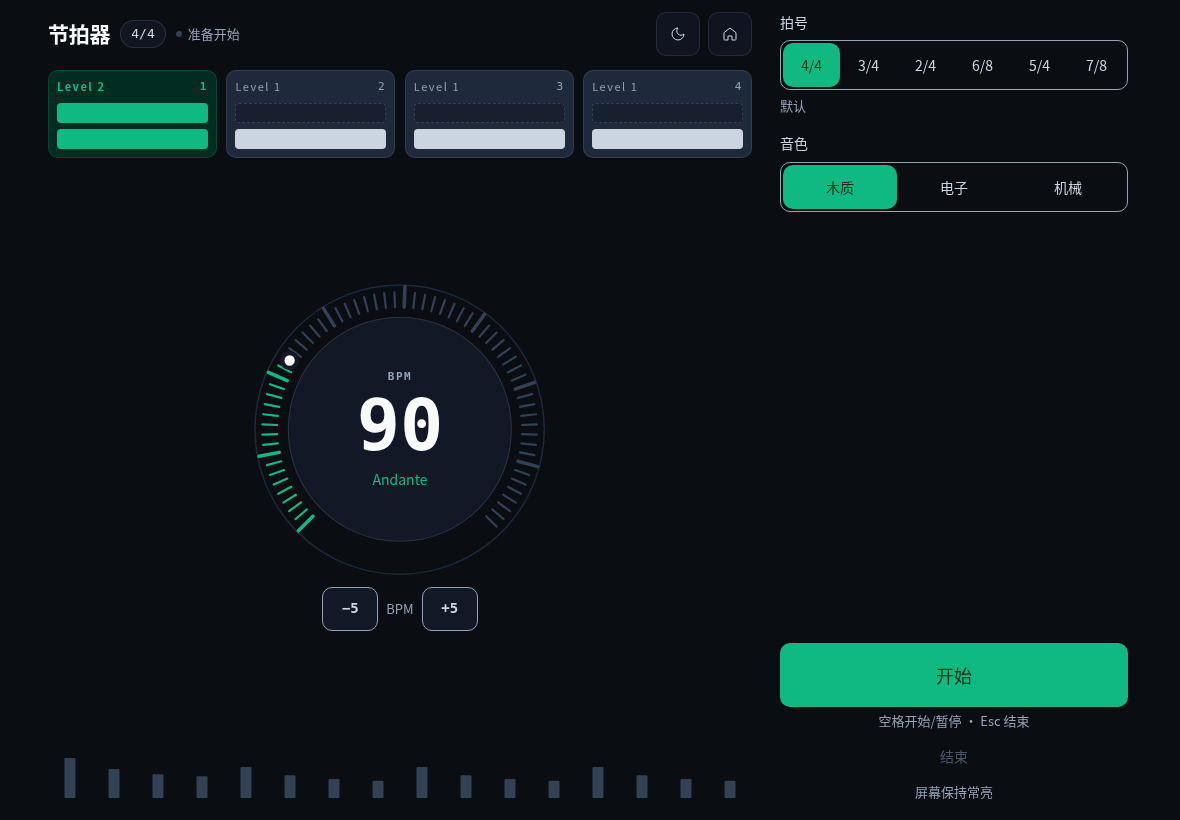
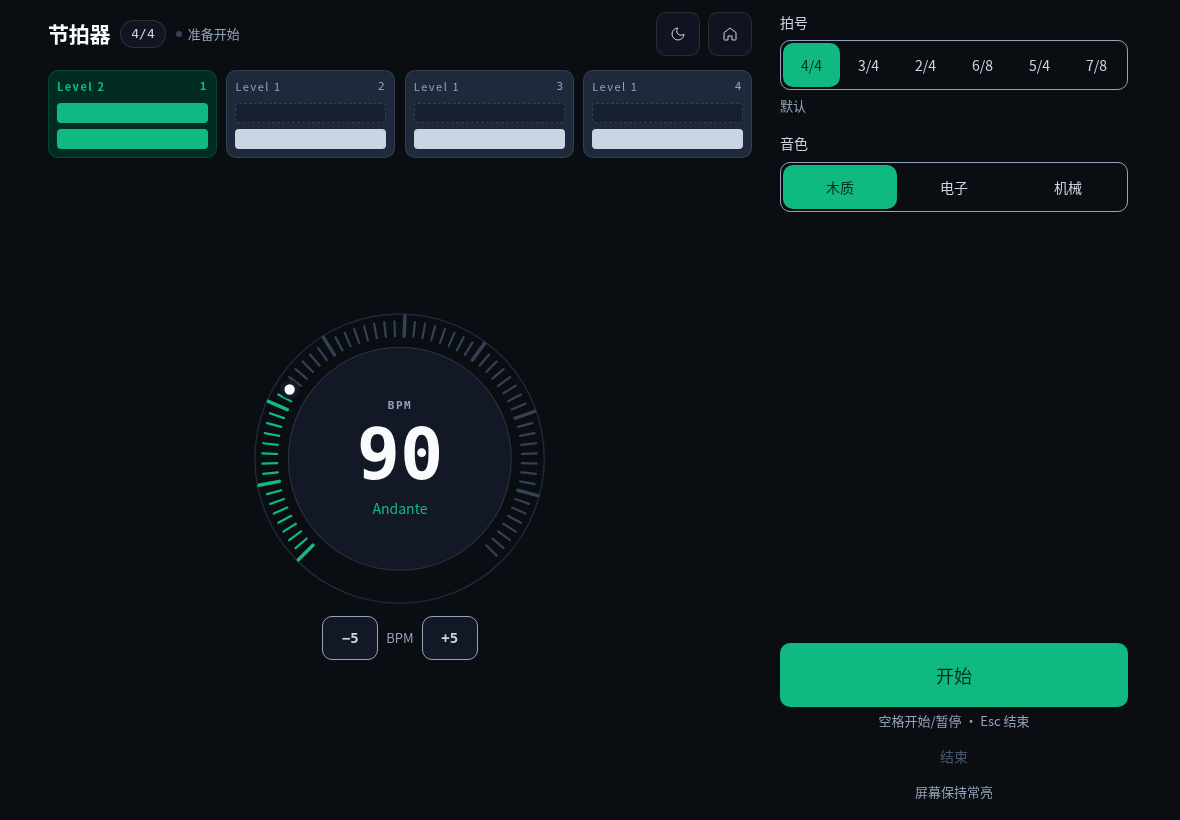
fix(metronome): 移除 iPad 横屏左侧重复的拍点波形行 (#44)

diff --git a/components/Metronome.tsx b/components/Metronome.tsx
@@ -1,6 +1,5 @@
 import { useCallback, useEffect, useRef, useState, useSyncExternalStore } from "react";
 import { BpmDial } from "@/components/BpmDial";
-import { TempoWave } from "@/components/TempoWave";
 import { Icon } from "@/components/icons";
 import { useScreenWakeLock } from "@/components/useScreenWakeLock";
 import {
@@ -938,11 +937,6 @@ export function Metronome() {
             <BpmStepControls bpm={bpm} onChange={changeBpm} />
           </section>
 
-          {/* 拍点波形：每拍四个细分，与拍点同步。 */}
-          <section className="metronome-split__wave">
-            <TempoWave meter={meter} activeBeat={activeBeat} running={phase === "running"} className="h-10" />
-            <p className="sr-only">波形：每拍四个细分，亮色是当前拍。</p>
-          </section>
         </div>
 
         <aside className="metronome-split__controls" aria-label="节拍器调节">

diff --git a/astro/styles/global.css b/astro/styles/global.css
@@ -1723,12 +1723,6 @@
       aspect-ratio: 1;
     }
 
-    .metronome-split__wave {
-      flex: none;
-      min-height: 0;
-      padding-top: 0.25rem;
-    }
-
     .metronome-split__controls {
       display: flex;
       min-height: 0;

diff --git a/DESIGN.md b/DESIGN.md
@@ -202,8 +202,8 @@ dock 与页脚一并让位（`body.is-metronome-page`）。布局按方向分两
 
 **横屏双栏（iPad 横屏、桌面 `orientation: landscape` 且 ≥640px）**：
 
-- 左 2/3 为读数区：标题与运行状态、拍柱重音设置、调速圆盘（`min(36svh, 19rem)`）、
-  拍点波形；右 1/3 为调节区：拍号、音色、开始 / 结束与屏幕常亮提示，纵向贴底。
+- 左 2/3 为读数区：标题与运行状态、拍柱重音设置、调速圆盘（`min(36svh, 19rem)`）；
+  右 1/3 为调节区：拍号、音色、开始 / 结束与屏幕常亮提示，纵向贴底。
 - 两列等高于视口高度，控制台 `height: 100%`；右侧允许自身纵向滚动，但默认内容
   在一个视口内完整可见。
 - 桌面（`min-width: 1024px` 且 `pointer: fine`）保留站点外壳与下方配套指引，
@@ -225,11 +225,6 @@ dock 与页脚一并让位（`body.is-metronome-page`）。布局按方向分两
 - **带节拍器的曲谱**（TabDrill，2026-10-26）：一个音频时钟同时驱动发声与谱面高亮。
   拍位由 lib/tab-timing.ts 从音符时值推导（q/8/8t/16），不是手数的小节表；
   四段并列练习共用同一拍位，因此同一时刻在四段里各点亮一个音。
-- **拍点波形**（TempoWave，2026-10-26）：一根柱是一拍里的四分之一，峰值落在拍点，
-  重音拍整体更高；播放时当前拍的那一组换成强调色。柱高由拍号推导，不随音量变化；
-  高亮来自节拍器的调度循环，和真正发声的拍是同一个来源——不另开计时器，也不做假的音频分析。
-  波形没有动画，只有颜色变化，因此减弱动态效果下不需要额外分支。
-  首页快捷条用两细分，节拍器页用四细分。
 
 ## 7. 响应式与可访问性
 
